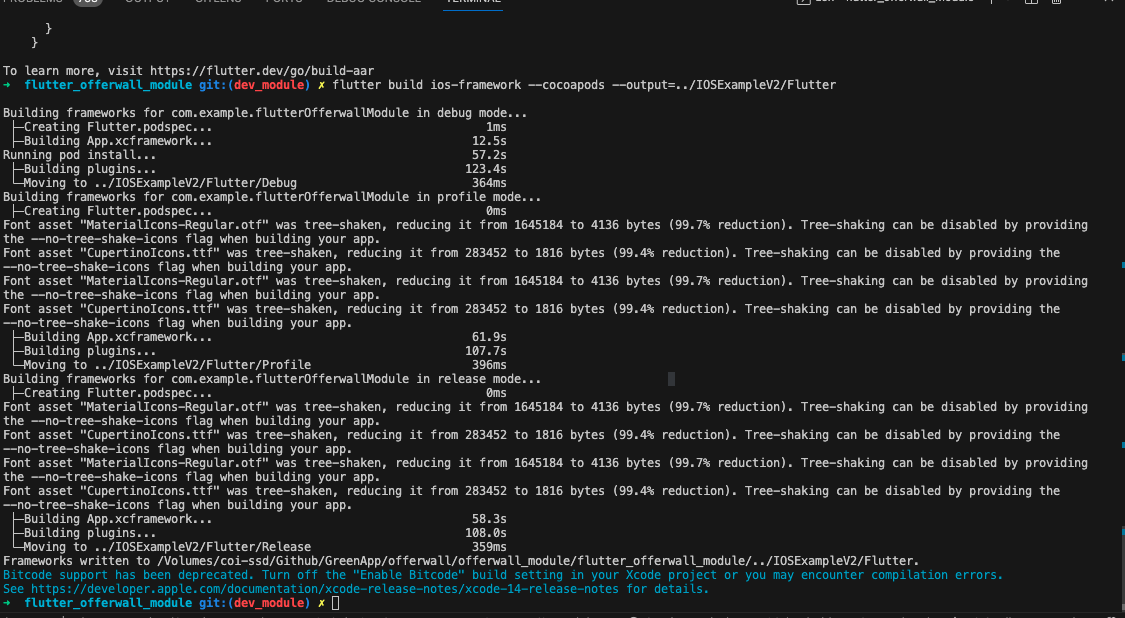
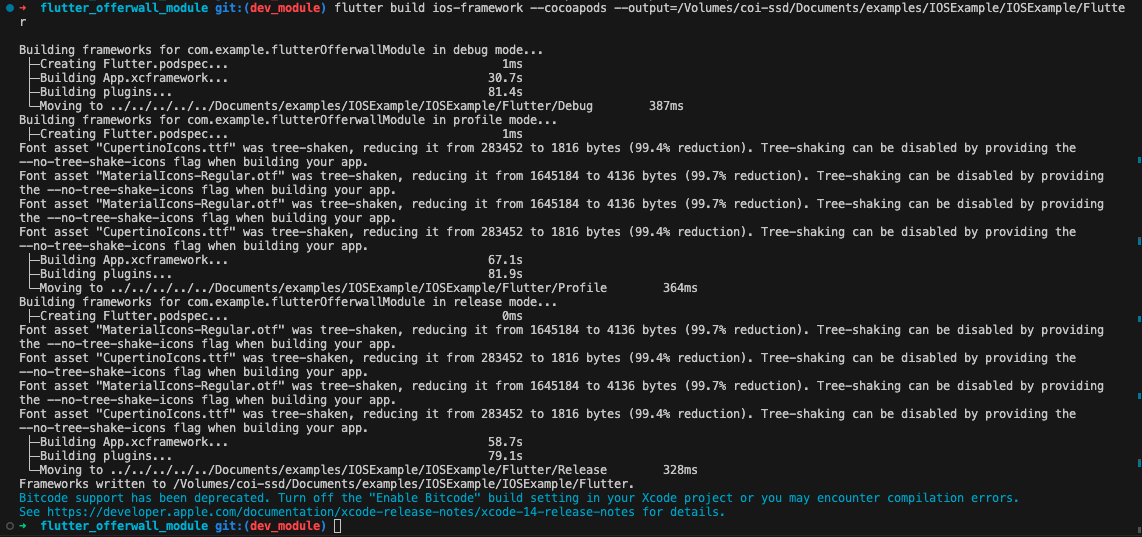
.

diff --git a/docs/README-IOS.md b/docs/README-IOS.md
@@ -99,6 +99,78 @@ flutter build ios-framework --cocoapods --output=<your path>/<My Application>/Fl
 
 ![Alt text](./images/result-build-framework.png)
 
+```
+<your path>/<My Application>/
+└── Flutter/
+    ├── Debug/
+    │   ├── Flutter.podspec
+    │   ├── App.xcframework
+    │   ├── FlutterPluginRegistrant.xcframework
+    │   └── example_plugin.xcframework (each plugin with iOS platform code is a separate framework)
+    ├── Profile/
+    │   ├── Flutter.podspec
+    │   ├── App.xcframework
+    │   ├── FlutterPluginRegistrant.xcframework
+    │   └── example_plugin.xcframework
+    └── Release/
+        ├── Flutter.podspec
+        ├── App.xcframework
+        ├── FlutterPluginRegistrant.xcframework
+        └── example_plugin.xcframework
+```
+
 ### Add IOS framework to project
+
+- Host apps using CocoaPods can add Flutter to their `Podfile`:
+
+```
+pod 'Flutter', :podspec => './Flutter/Debug/Flutter.podspec'
+
+target 'IOSExample' do
+...
+end
+
+post_install do |installer|
+  flutter_post_install(installer) if defined?(flutter_post_install)
+  # installer.pods_project.build_configurations.each do |config|
+  #   config.build_settings["EXCLUDED_ARCHS[sdk=iphonesimulator*]"] = "i386, arm64"
+  # end
+end
+
+```
+
+- Run `Podfile`:
+
+```
+pod install --repo-update
+```
+
+- Add config permission `Info.plist`:
+
+```
+    <key>NSBonjourServices</key>
+	<array>
+		<string>_dartobservatory._tcp</string>
+	</array>
+
+    ...
+
+	<key>UIBackgroundModes</key>
+	<array>
+		<string>fetch</string>
+		<string>processing</string>
+		<string>remote-notification</string>
+	</array>
+	<key>NSLocationAlwaysUsageDescription</key>
+	<string>This app needs access to location when in the background.</string>
+	<key>NSCameraUsageDescription</key>
+	<string>Allows access camera to take photo.</string>
+	<key>NSPhotoLibraryUsageDescription</key>
+	<string>Allows access camera to take photo.</string>
+	<key>NSUserTrackingUsageDescription</key>
+	<string>앱 추적 동의 팝업 창에 노출됩니다.</string>
+	<key>UIApplicationSupportsIndirectInputEvents</key>
+	<true/>
+```
 
 ### Call IOS framework to project 
